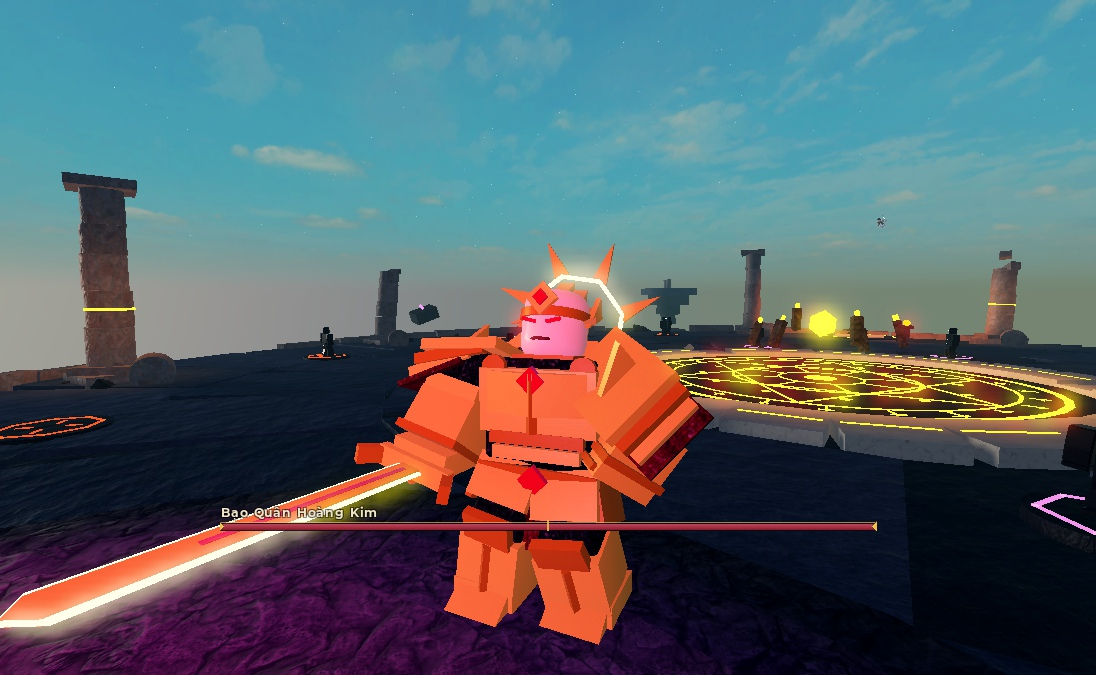
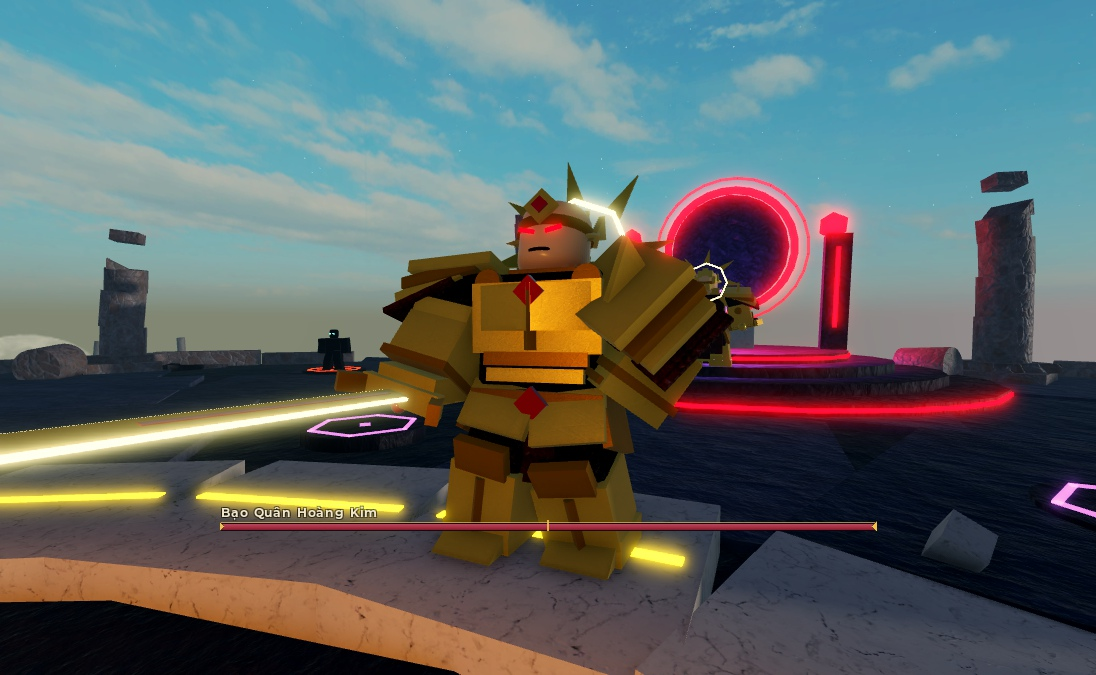
docs: re-shoot the boss armor in open light, add the dodge roll

diff --git a/README.md b/README.md
@@ -121,7 +121,7 @@ selene src
 | ![Phone HUD with touch buttons](docs/screenshots/15-phone-hud-touch.png) | ![Passive tree on a phone](docs/screenshots/16-phone-passive-tree.png) |
 | ![Golden Tyrant idle, armor and halo](docs/screenshots/21-boss-idle-armor.png) | ![Golden Tyrant chains](docs/screenshots/22-boss-chains.png) |
 | ![Golden Tyrant armory in phase 2](docs/screenshots/23-boss-armory-phase2.png) | ![Golden Tyrant ultimate](docs/screenshots/24-boss-ultimate.png) |
-| ![Golden Tyrant defeated](docs/screenshots/25-boss-defeated.png) | |
+| ![Golden Tyrant defeated](docs/screenshots/25-boss-defeated.png) | ![Dodge roll, three frames of the somersault](docs/screenshots/26-dodge-roll.png) |
 
 ## Docs
 
